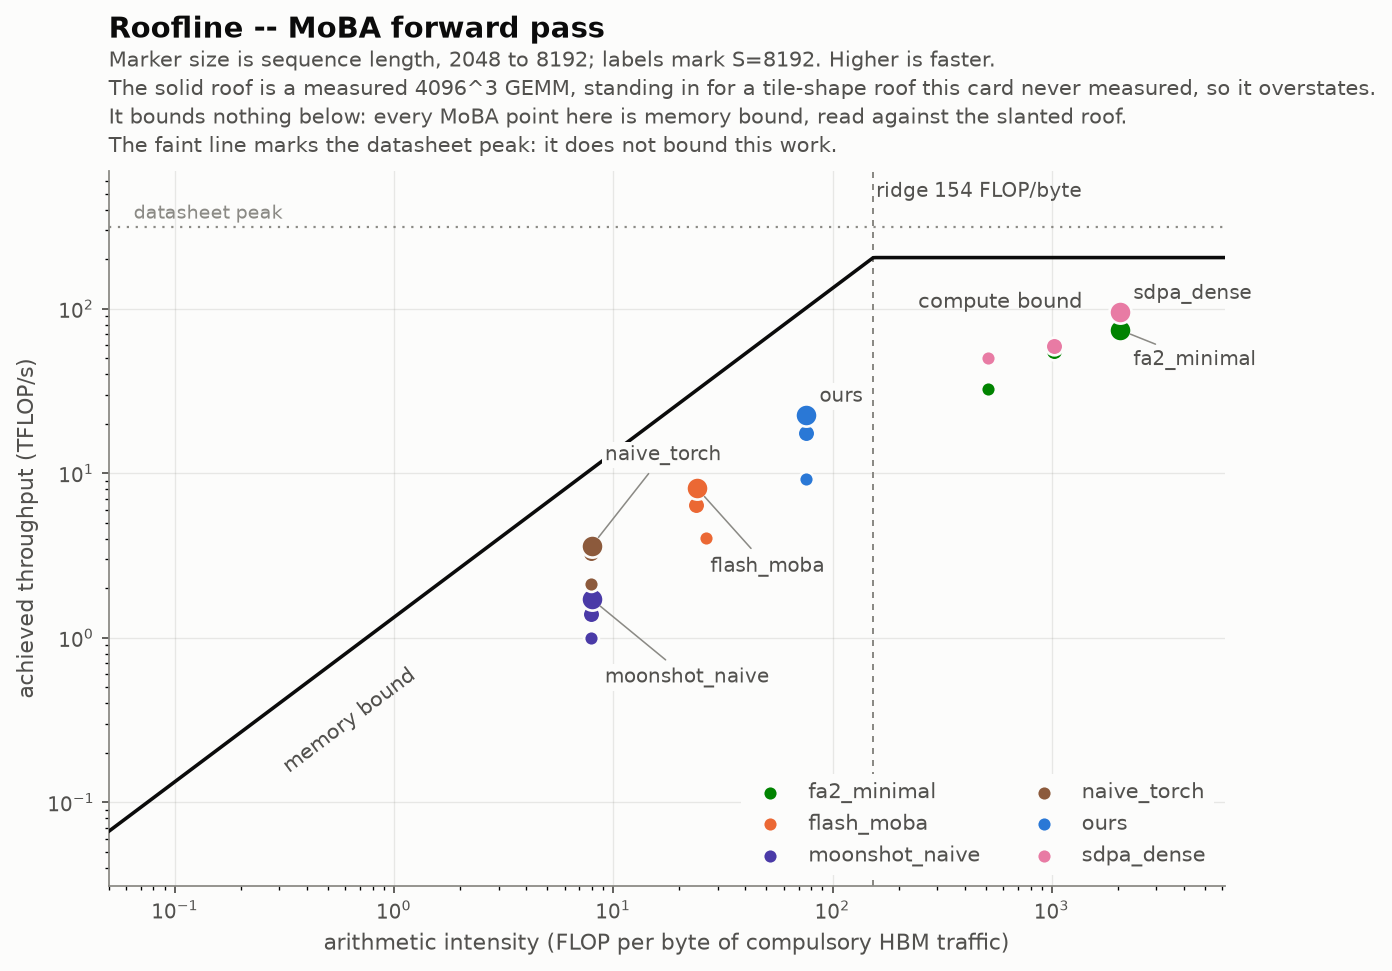
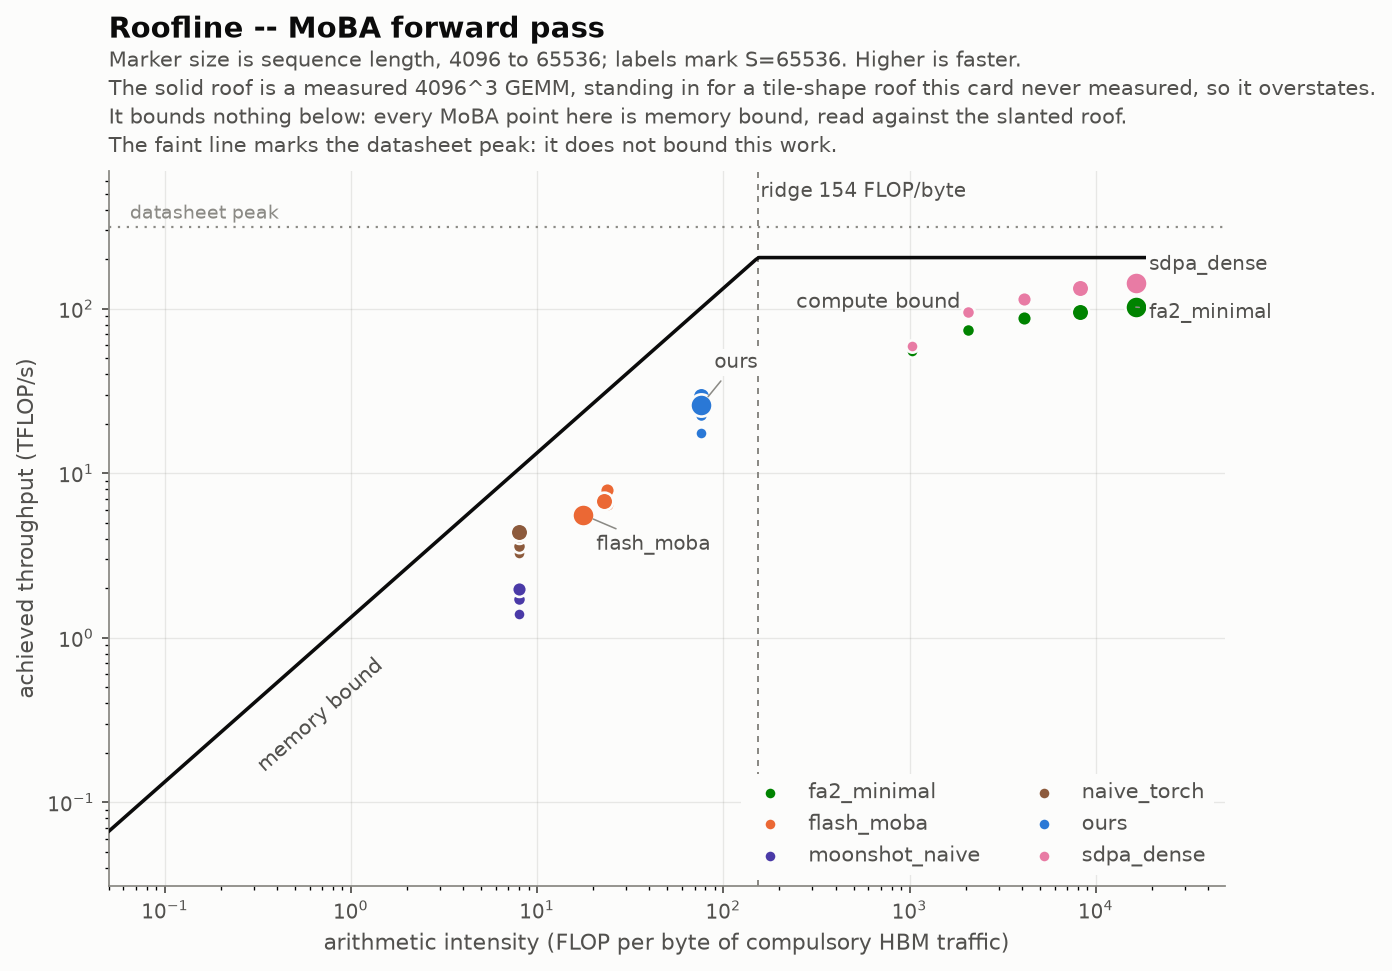
bench: restore roofline-alt to the sequence range that made it different
I regenerated it with the default --seq-lens and reported it as a byte-
identical duplicate that could be deleted. Both halves of that were wrong, and
the second followed from the first.

results/sm80-a100/README.md called it "a second render from this session",
which reads as a duplicate. It is not. roofline.png renders S=2048..8192;
roofline-alt.png renders S=4096..65536, so it is the view that shows the points
moving with sequence length: ours climbing from 17 to 30 TFLOP/s at a constant
75.8 FLOP/byte while the dense baselines march right. Regenerating it at the
default lengths destroyed exactly the thing it was for, and made it a duplicate
rather than revealing it to be one.

Restored at 4096..65536, and the card README now says what distinguishes it so
the next person does not make the same call.

All four rooflines re-rendered to a temporary path and compared byte for byte
against what is committed: identical, so what is in the tree is what was
reviewed.

diff --git a/results/sm80-a100/README.md b/results/sm80-a100/README.md
@@ -38,9 +38,11 @@ from.
 
 `data/residual-b.json` (second residual run), `data/tabled-*.csv` (tuned-table
 confirmation), `figures/roofline-alt.png` (a second render from this session;
-`figures/roofline.png` is the one the docs cite, and since the
-2026-09-22 rebuild the two are byte-identical, so this one can go
-whenever someone decides to), `figures/moba-*.png`,
+`figures/roofline.png` is the one the docs cite. It is not a duplicate:
+it renders S=4096..65536 where `roofline.png` renders 2048..8192, so it
+shows the points moving with sequence length. "A second render" sold it
+short and cost it a regeneration at the wrong lengths on 2026-09-22,
+since corrected), `figures/moba-*.png`,
 `figures/results.html` (84 bytes of `<img>` tags `triton.testing` writes next
 to its CSVs), and the session logs `last`, `occ`, `passA`, `passB`, `sweep`,
 `fairness`, `65k-recovery`.
